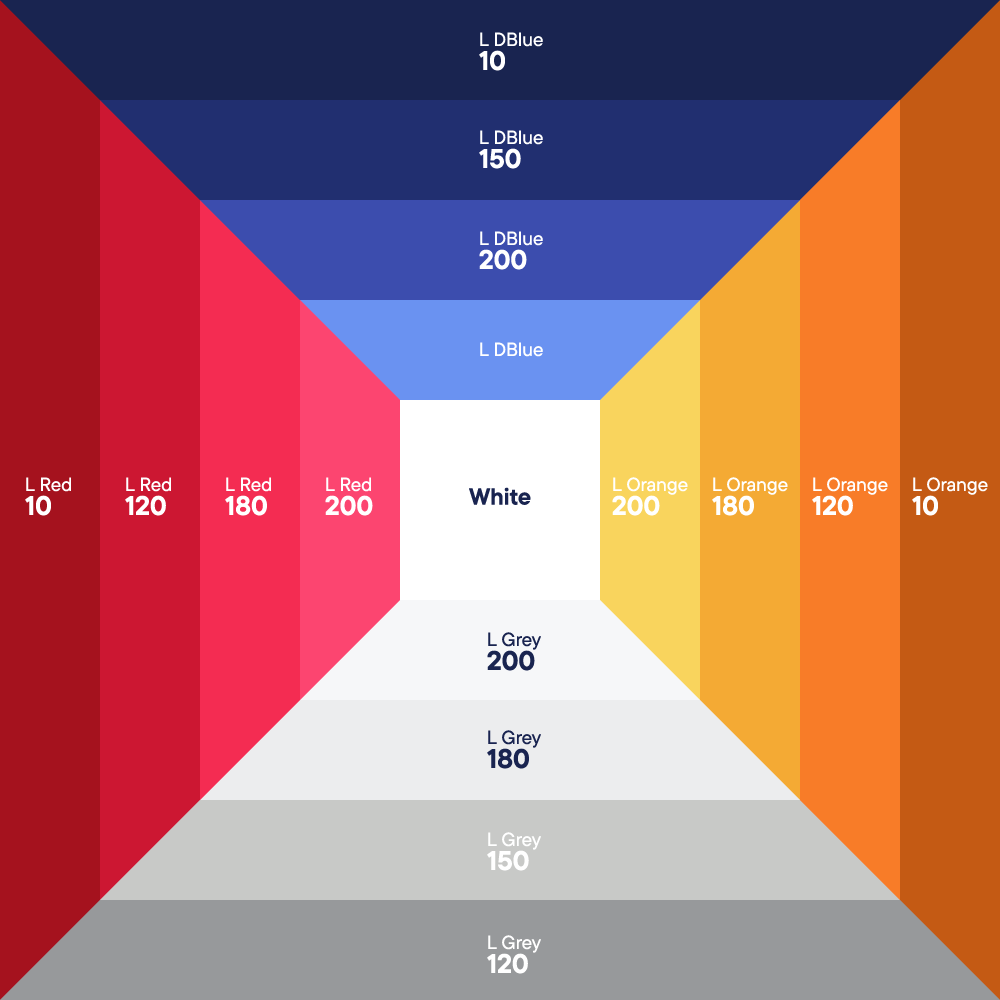
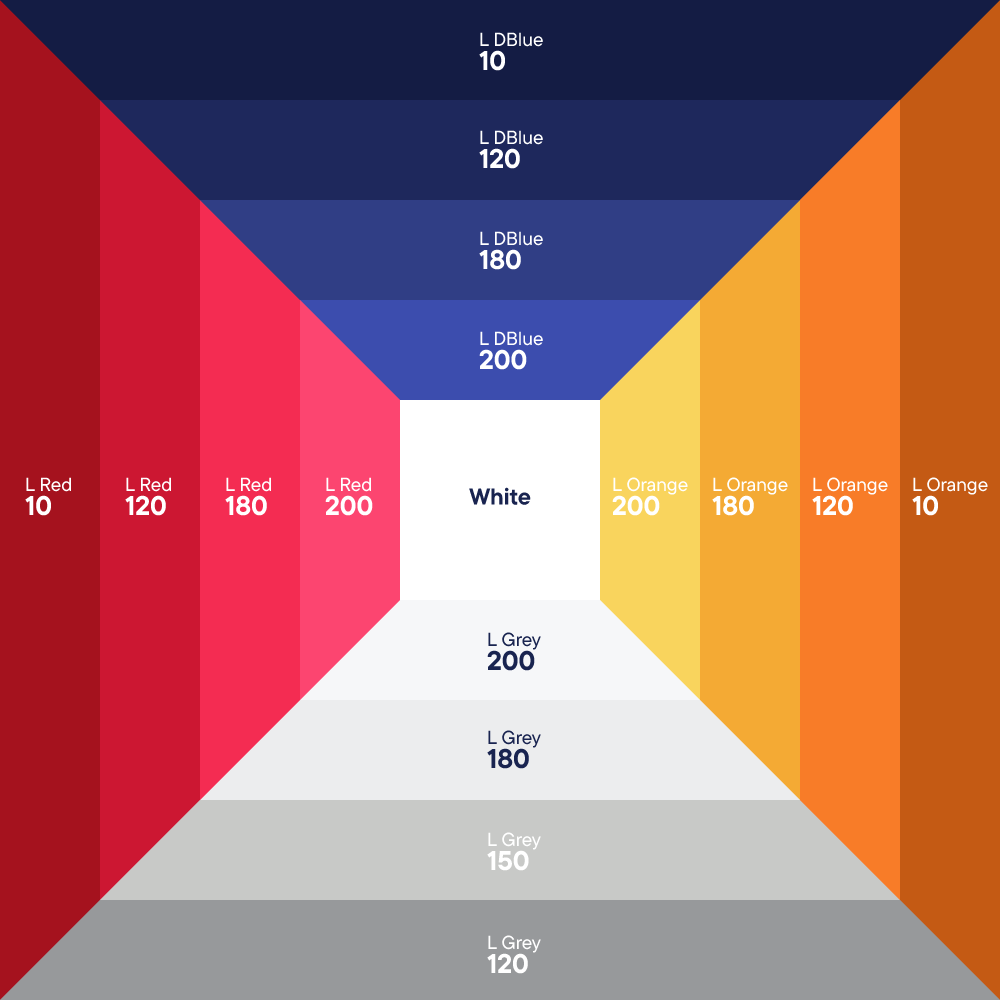
Add files via upload

diff --git a/visual-identity/color/index.html b/visual-identity/color/index.html
@@ -367,6 +367,156 @@
         </div>
       </div>
       
+      <!-- BLUE -->
+      
+      <div class="row">
+        <div class="col-2 off-12-small">
+          <hr class="block">
+        </div>
+        <div class="col-10 col-12-small">
+          <hr class="block1">
+          <h3 class="db_t">L Blue &#8212; лазурный</h3>
+          <hr class="mini">
+        </div>
+      </div>
+      <div class="row">
+        <div class="col-2 off-12-small"> </div>
+        <div class="col-10 col-12-small box_grid">
+          <div class="box_text block color_box_blue10 t_color_w no_rounded">
+            <h6>Производный</h6>
+            <p class="db_t" style="margin-top:1.25rem;">L Blue-10</p>
+            <h6 class="upup" style="margin-top:0.5rem;">#005285</h6>
+            <hr class="block">
+            <div class="box_grid_inside bd_tx">
+              <div class="box_text block_inside">C<br>
+                M<br>
+                Y<br>
+                K</div>
+              <div class="box_text block_inside_minispace">097<br>
+                065<br>
+                023<br>
+                008</div>
+              <div class="box_text block_inside">R<br>
+                G<br>
+                B</div>
+              <div class="box_text block_inside_minispace">000<br>
+                082<br>
+                133</div>
+            </div>
+          </div>
+          <div class="box_text block color_box_blue120 t_color_w no_rounded">
+            <h6>Производный</h6>
+            <p class="db_t" style="margin-top:1.25rem;">L Blue-120</p>
+            <h6 class="upup" style="margin-top:0.5rem;">#066ea7</h6>
+            <hr class="block">
+            <div class="box_grid_inside bd_tx">
+              <div class="box_text block_inside">C<br>
+                M<br>
+                Y<br>
+                K</div>
+              <div class="box_text block_inside_minispace">088<br>
+                050<br>
+                012<br>
+                000</div>
+              <div class="box_text block_inside">R<br>
+                G<br>
+                B</div>
+              <div class="box_text block_inside_minispace">006<br>
+                110<br>
+                067</div>
+            </div>
+          </div>
+          <div class="box_text block color_box_blue150 t_color_w no_rounded">
+            <h6>Ведущий</h6>
+            <p class="db_t" style="margin-top:1.25rem;">L Blue-150</p>
+            <h6 class="upup" style="margin-top:0.5rem;">#1588c4</h6>
+            <hr class="block">
+            <div class="box_grid_inside bd_tx">
+              <div class="box_text block_inside">C<br>
+                M<br>
+                Y<br>
+                K</div>
+              <div class="box_text block_inside_minispace">080<br>
+                035<br>
+                004<br>
+                000</div>
+              <div class="box_text block_inside">R<br>
+                G<br>
+                B</div>
+              <div class="box_text block_inside_minispace">021<br>
+                136<br>
+                196</div>
+            </div>
+          </div>
+          <div class="box_text block color_box_blue180 t_color_w no_rounded">
+            <h6>Акцентный</h6>
+            <p class="db_t" style="margin-top:1.25rem;">L Blue-180</p>
+            <h6 class="upup" style="margin-top:0.5rem;">#42a3d5</h6>
+            <hr class="block">
+            <div class="box_grid_inside bd_tx">
+              <div class="box_text block_inside">C<br>
+                M<br>
+                Y<br>
+                K</div>
+              <div class="box_text block_inside_minispace">064<br>
+                014<br>
+                000<br>
+                000</div>
+              <div class="box_text block_inside">R<br>
+                G<br>
+                B</div>
+              <div class="box_text block_inside_minispace">066<br>
+                163<br>
+                213</div>
+            </div>
+          </div>
+          <div class="box_text block color_box_blue200 t_color_w no_rounded">
+            <h6>Производный</h6>
+            <p class="db_t" style="margin-top:1.25rem;">L Blue-200</p>
+            <h6 class="upup" style="margin-top:0.5rem;">#5ac6ed</h6>
+            <hr class="block">
+            <div class="box_grid_inside bd_tx">
+              <div class="box_text block_inside">C<br>
+                M<br>
+                Y<br>
+                K</div>
+              <div class="box_text block_inside_minispace">060<br>
+                000<br>
+                004<br>
+                000</div>
+              <div class="box_text block_inside">R<br>
+                G<br>
+                B</div>
+              <div class="box_text block_inside_minispace">090<br>
+                198<br>
+                237</div>
+            </div>
+          </div>
+          <div class="box_text block color_box_blue600 no_rounded">
+            <h6>Производный</h6>
+            <p class="db_t" style="margin-top:1.25rem;">L Blue-600</p>
+            <h6 class="upup" style="margin-top:0.5rem;">#87ebff</h6>
+            <hr class="block">
+            <div class="box_grid_inside bd_tx">
+              <div class="box_text block_inside">C<br>
+                M<br>
+                Y<br>
+                K</div>
+              <div class="box_text block_inside_minispace">044<br>
+                000<br>
+                006<br>
+                000</div>
+              <div class="box_text block_inside">R<br>
+                G<br>
+                B</div>
+              <div class="box_text block_inside_minispace">135<br>
+                235<br>
+                255</div>
+            </div>
+          </div>
+        </div>
+      </div>
+      
       <!-- GREEN -->
       
       <div class="row">
@@ -490,6 +640,28 @@
               <div class="box_text block_inside_minispace">075<br>
                 170<br>
                 122</div>
+            </div>
+          </div>
+          <div class="box_text block color_box_green600 no_rounded">
+            <h6>Производный</h6>
+            <p class="db_t" style="margin-top:1.25rem;">L Green-600</p>
+            <h6 class="upup" style="margin-top:0.5rem;">#78dcb9</h6>
+            <hr class="block">
+            <div class="box_grid_inside bd_tx">
+              <div class="box_text block_inside">C<br>
+                M<br>
+                Y<br>
+                K</div>
+              <div class="box_text block_inside_minispace">052<br>
+                000<br>
+                038<br>
+                000</div>
+              <div class="box_text block_inside">R<br>
+                G<br>
+                B</div>
+              <div class="box_text block_inside_minispace">120<br>
+                220<br>
+                185</div>
             </div>
           </div>
         </div>
@@ -620,6 +792,28 @@
                 093</div>
             </div>
           </div>
+          <div class="box_text block color_box_orange600 no_rounded">
+            <h6>Производный</h6>
+            <p class="db_t" style="margin-top:1.25rem;">L Orange-600</p>
+            <h6 class="upup" style="margin-top:0.5rem;">#ffec8c</h6>
+            <hr class="block">
+            <div class="box_grid_inside bd_tx">
+              <div class="box_text block_inside">C<br>
+                M<br>
+                Y<br>
+                K</div>
+              <div class="box_text block_inside_minispace">000<br>
+                020<br>
+                056<br>
+                000</div>
+              <div class="box_text block_inside">R<br>
+                G<br>
+                B</div>
+              <div class="box_text block_inside_minispace">255<br>
+                236<br>
+                140</div>
+            </div>
+          </div>
         </div>
       </div>
       
@@ -746,6 +940,28 @@
               <div class="box_text block_inside_minispace">252<br>
                 069<br>
                 112</div>
+            </div>
+          </div>
+          <div class="box_text block color_box_red600 no_rounded">
+            <h6>Производный</h6>
+            <p class="db_t" style="margin-top:1.25rem;">L Red-600</p>
+            <h6 class="upup" style="margin-top:0.5rem;">#ffb6dc</h6>
+            <hr class="block">
+            <div class="box_grid_inside bd_tx">
+              <div class="box_text block_inside">C<br>
+                M<br>
+                Y<br>
+                K</div>
+              <div class="box_text block_inside_minispace">000<br>
+                000<br>
+                040<br>
+                000</div>
+              <div class="box_text block_inside">R<br>
+                G<br>
+                B</div>
+              <div class="box_text block_inside_minispace">255<br>
+                082<br>
+                220</div>
             </div>
           </div>
         </div>
@@ -1223,7 +1439,7 @@
           <div class="box_text block color_box_grey150 no_rounded">
             <h6>Ведущий</h6>
             <p class="db_t" style="margin-top:1.25rem;">L Grey-150</p>
-            <h6 class="upup" style="margin-top:0.5rem;">#C8C9C7</h6>
+            <h6 class="upup" style="margin-top:0.5rem;">#c8c9cb</h6>
             <hr class="block">
             <div class="box_grid_inside bd_tx">
               <div class="box_text block_inside">C<br>
@@ -1233,13 +1449,13 @@
               <div class="box_text block_inside_minispace">025<br>
                 018<br>
                 018<br>
-                000</div>
+                020</div>
               <div class="box_text block_inside">R<br>
                 G<br>
                 B</div>
               <div class="box_text block_inside_minispace">200<br>
                 201<br>
-                199</div>
+                203</div>
             </div>
           </div>
           <div class="box_text block color_box_grey180 no_rounded">
